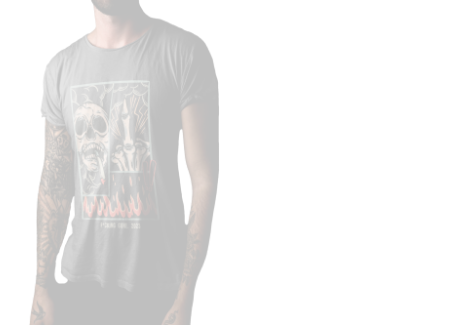
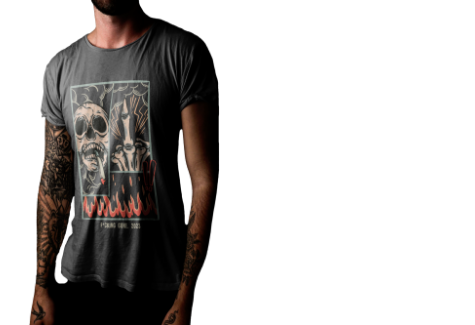
Update studio release card

diff --git a/components/Card/StudioReleaseCard/index.tsx b/components/Card/StudioReleaseCard/index.tsx
@@ -28,13 +28,26 @@ const DashboardNFTCard = props => {
   const [randomColorNumber, setRandomColorNumber] = useState(-1)
   const [apparelList, setApparelList] = useState(null)
   const [imagePath, setImagepath] = useState('')
-  const [color, setColor] = useState({
-    id: 0,
-    name: '#000000',
-    type: 'black',
-    asset_url: '/images/apparel-color-black.png',
-  })
+  const [color, setColor] = useState(null)
   const [colorNumber, setColorNumber] = useState(-1)
+
+  useEffect(() => {
+    if (Math.floor(Math.random() * 1000) % 2 === 0) {
+      setColor({
+        id: 0,
+        name: '#000000',
+        type: 'black',
+        asset_url: '/images/apparel-color-black.png',
+      })
+    } else {
+      setColor({
+        id: 1,
+        name: '#fff',
+        type: 'white',
+        asset_url: '/images/apparel-color-white.png',
+      })
+    }
+  }, [])
 
   useEffect(() => {
     if (image) {
@@ -50,7 +63,7 @@ const DashboardNFTCard = props => {
 
   useEffect(() => {
     if (color && apparelList) {
-      switch (color.type) {
+      switch (color?.type) {
         case 'black':
           setImagepath(apparelList.black.image.front)
           break
@@ -70,7 +83,7 @@ const DashboardNFTCard = props => {
   }, [color])
 
   useEffect(() => {
-    switch (color.type) {
+    switch (color?.type) {
       case 'black':
         setColorNumber(1)
         break

diff --git a/components/Card/StudioCard/index.tsx b/components/Card/StudioCard/index.tsx
@@ -5,11 +5,17 @@ import styles from './index.module.scss'
 
 const StudioCard = props => {
   const { data, onSelected } = props
-
   return (
     <div className={styles.container}>
-      <div className={styles.imageContainer}>
-        <img src={data['asset_url']} alt="" className={styles.imageStatus} loading="lazy" />
+      <div
+        className={styles.imageContainer}
+        onClick={() => onSelected(data.type, data.bases[0].name, data.bases[0].base)}
+      >
+        <div className={styles.imageStatus}>
+          <img src={data['asset_url']} alt="" loading="lazy" className="object-cover w-full h-full" />
+          <div className={styles.imageCover} />
+        </div>
+
         <div className={styles.titleContainer}>
           <div className={styles.titleText}>{data.name}</div>
         </div>

diff --git a/components/StudioSelectionColor/index.module.scss b/components/StudioSelectionColor/index.module.scss
@@ -12,7 +12,7 @@
   width: 30px;
   height: 30px;
   border-radius: 33px;
-  border: 3px solid var(--main-icon-color);
+  border: 3px solid rgba(var(--main-bg-color-rgb), 0.25);
   cursor: pointer;
   overflow: hidden;
 }
@@ -26,7 +26,7 @@
   height: 30px;
   border-radius: 33px;
   border-width: 0px;
-  border: 3px solid var(--secondary-button-border);
+  border: 1px solid var(--secondary-button-border);
   cursor: pointer;
   overflow: hidden;
 }
@@ -35,7 +35,7 @@
   width: 25px;
   height: 25px;
   border-radius: 33px;
-  border: 3px solid var(--main-icon-color);
+  border: 1px solid rgba(var(--main-bg-color-rgb), 0.25);
   cursor: pointer;
   overflow: hidden;
 }

diff --git a/components/Card/StudioCard/index.module.scss b/components/Card/StudioCard/index.module.scss
@@ -8,6 +8,8 @@
   @media (min-width: 1024px) {
     max-height: 375px;
   }
+ 
+  cursor: pointer;
 }
 
 .imageContainer {
@@ -19,15 +21,25 @@
   }
   position: relative;
   overflow: hidden;
+  box-shadow: 0px 3px 6px rgba(black, 0.16);
   border-radius: 30px;
 }
 
 .imageStatus {
   width: 100%;
   height: 100%;
-  background-color: var(--profile-card-bg);
-  opacity: 90%;
   object-fit: cover;
+  position: relative;
+}
+
+.imageCover {
+  position: absolute;
+  width: 100%;
+  height: 100%;
+  left: 0;
+  top: 0;
+  background-color: var(--profile-card-bg);
+  opacity: 0.75;
 }
 
 .titleContainer {

diff --git a/components/pages/Studio/NewStudioReleasesSection/index.tsx b/components/pages/Studio/NewStudioReleasesSection/index.tsx
@@ -91,8 +91,8 @@ const NewStudioReleasesSection = props => {
             <div
               key={index}
               className={`flex ${
-                type === 'trending' ? 'col-span-12' : 'col-span-6'
-              } lg:col-span-4 2xl:col-span-4 flex items-center`}
+                type === 'trending' ? 'col-span-12 lg:col-span-4' : 'col-span-6 lg:col-span-3'
+              }  2xl:col-span-4 flex items-center`}
             >
               <StudioReleaseCard
                 image={heroValue.data}
